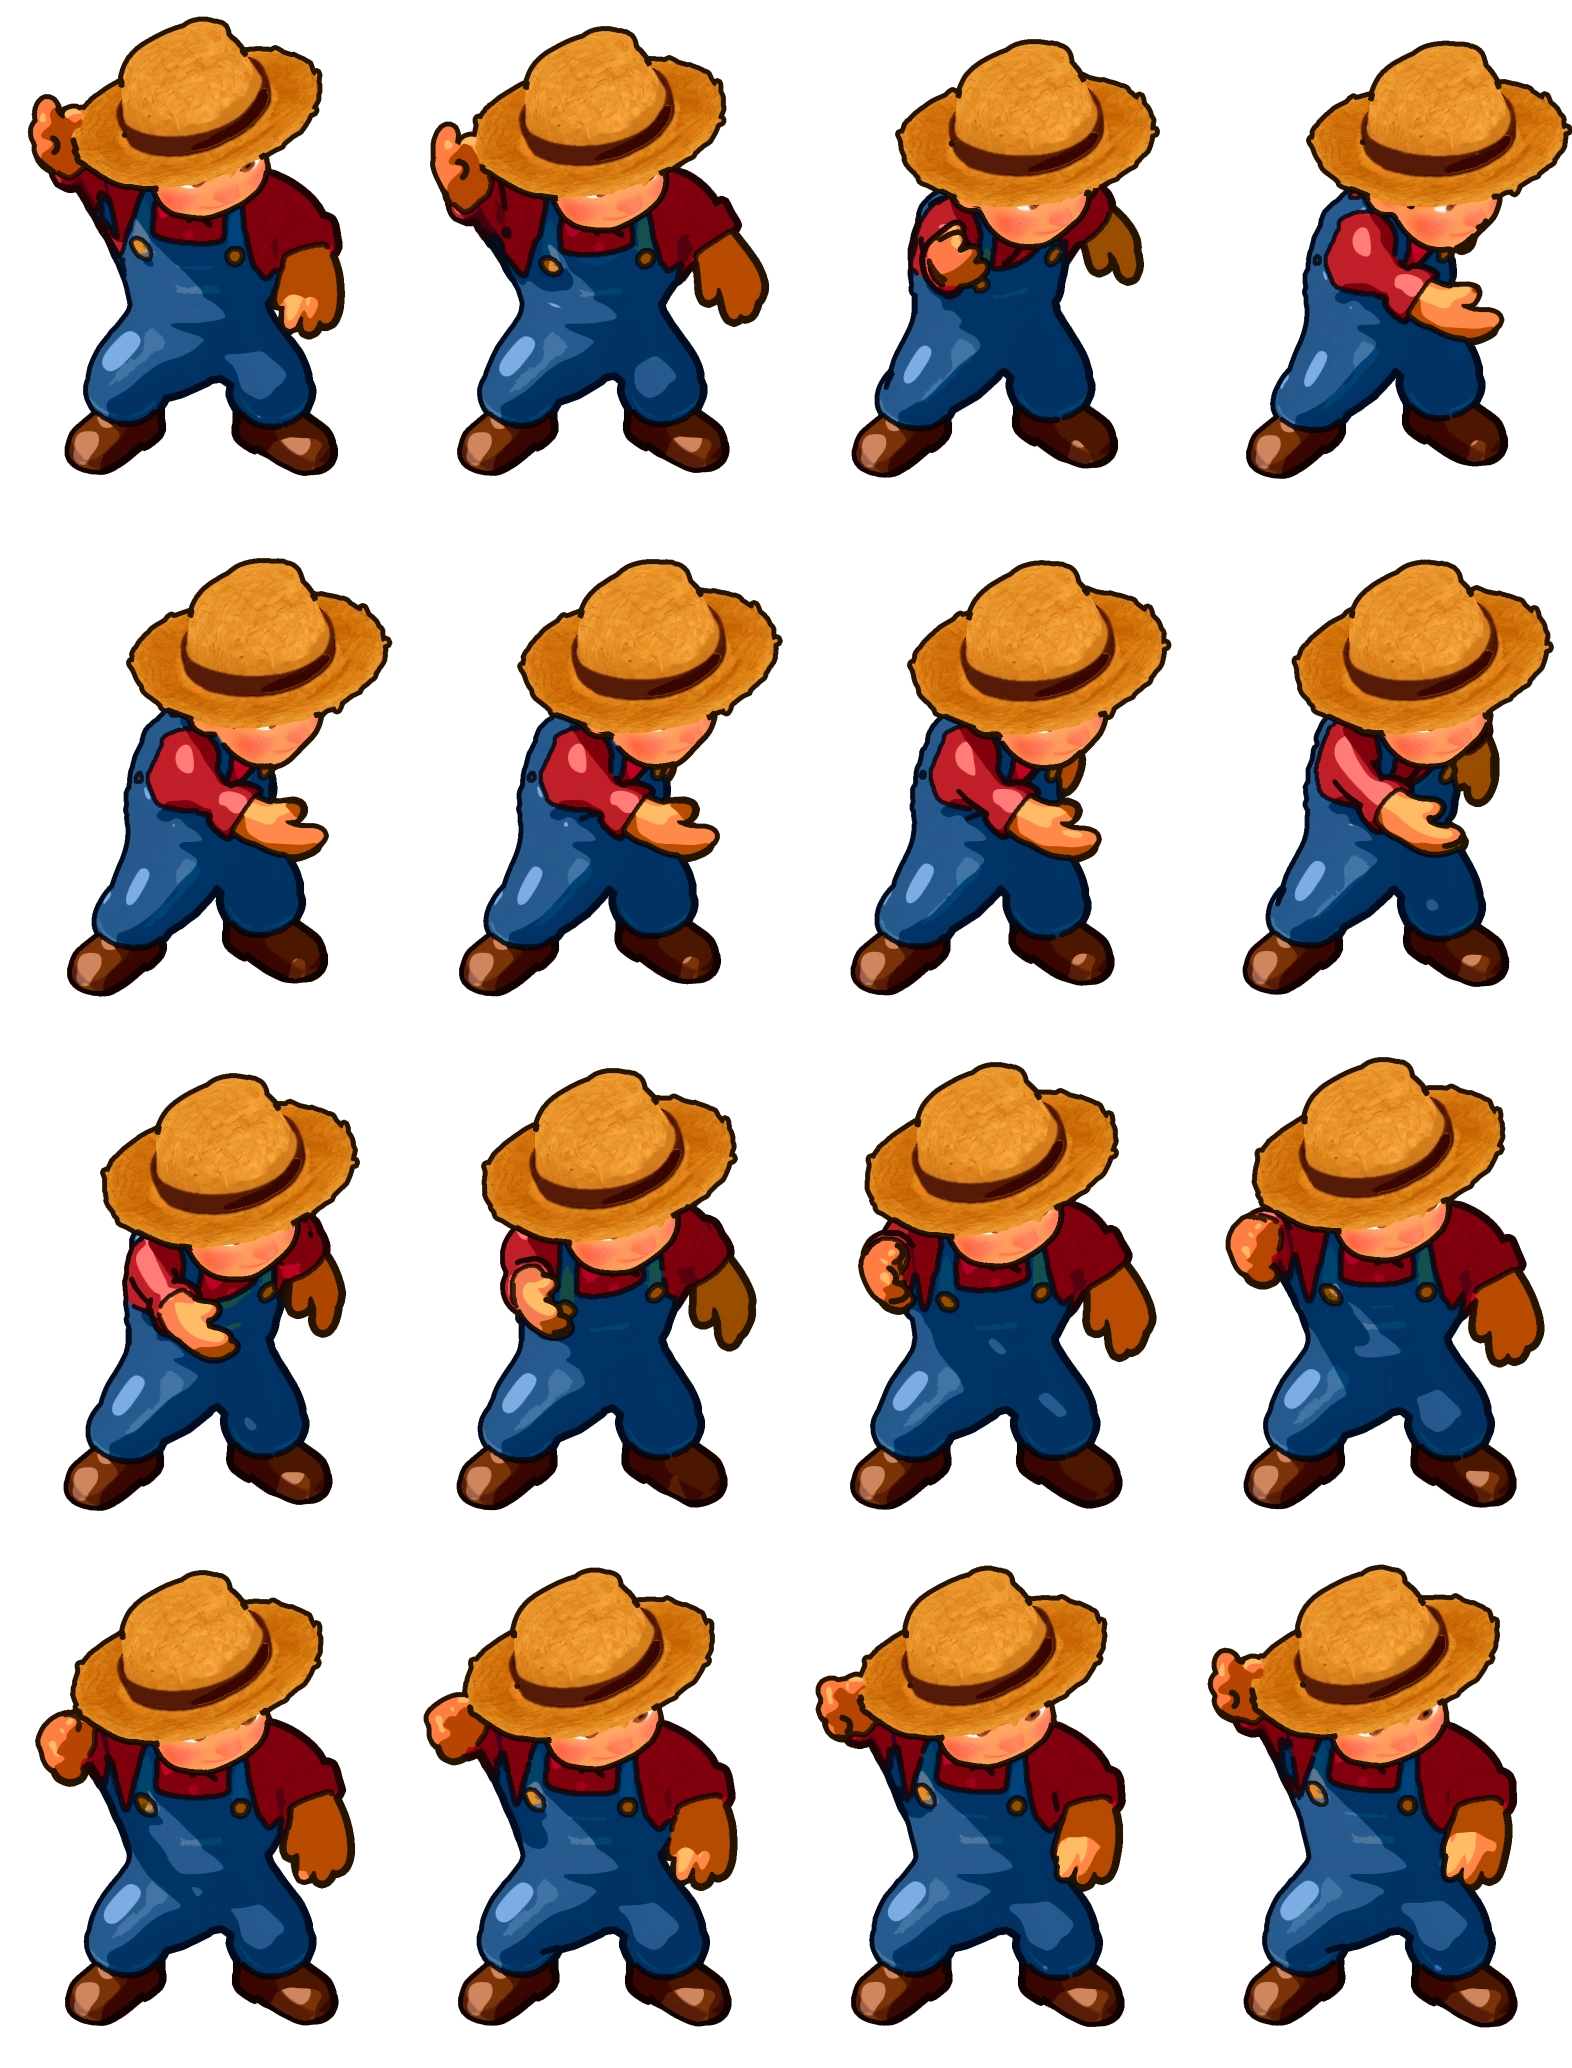
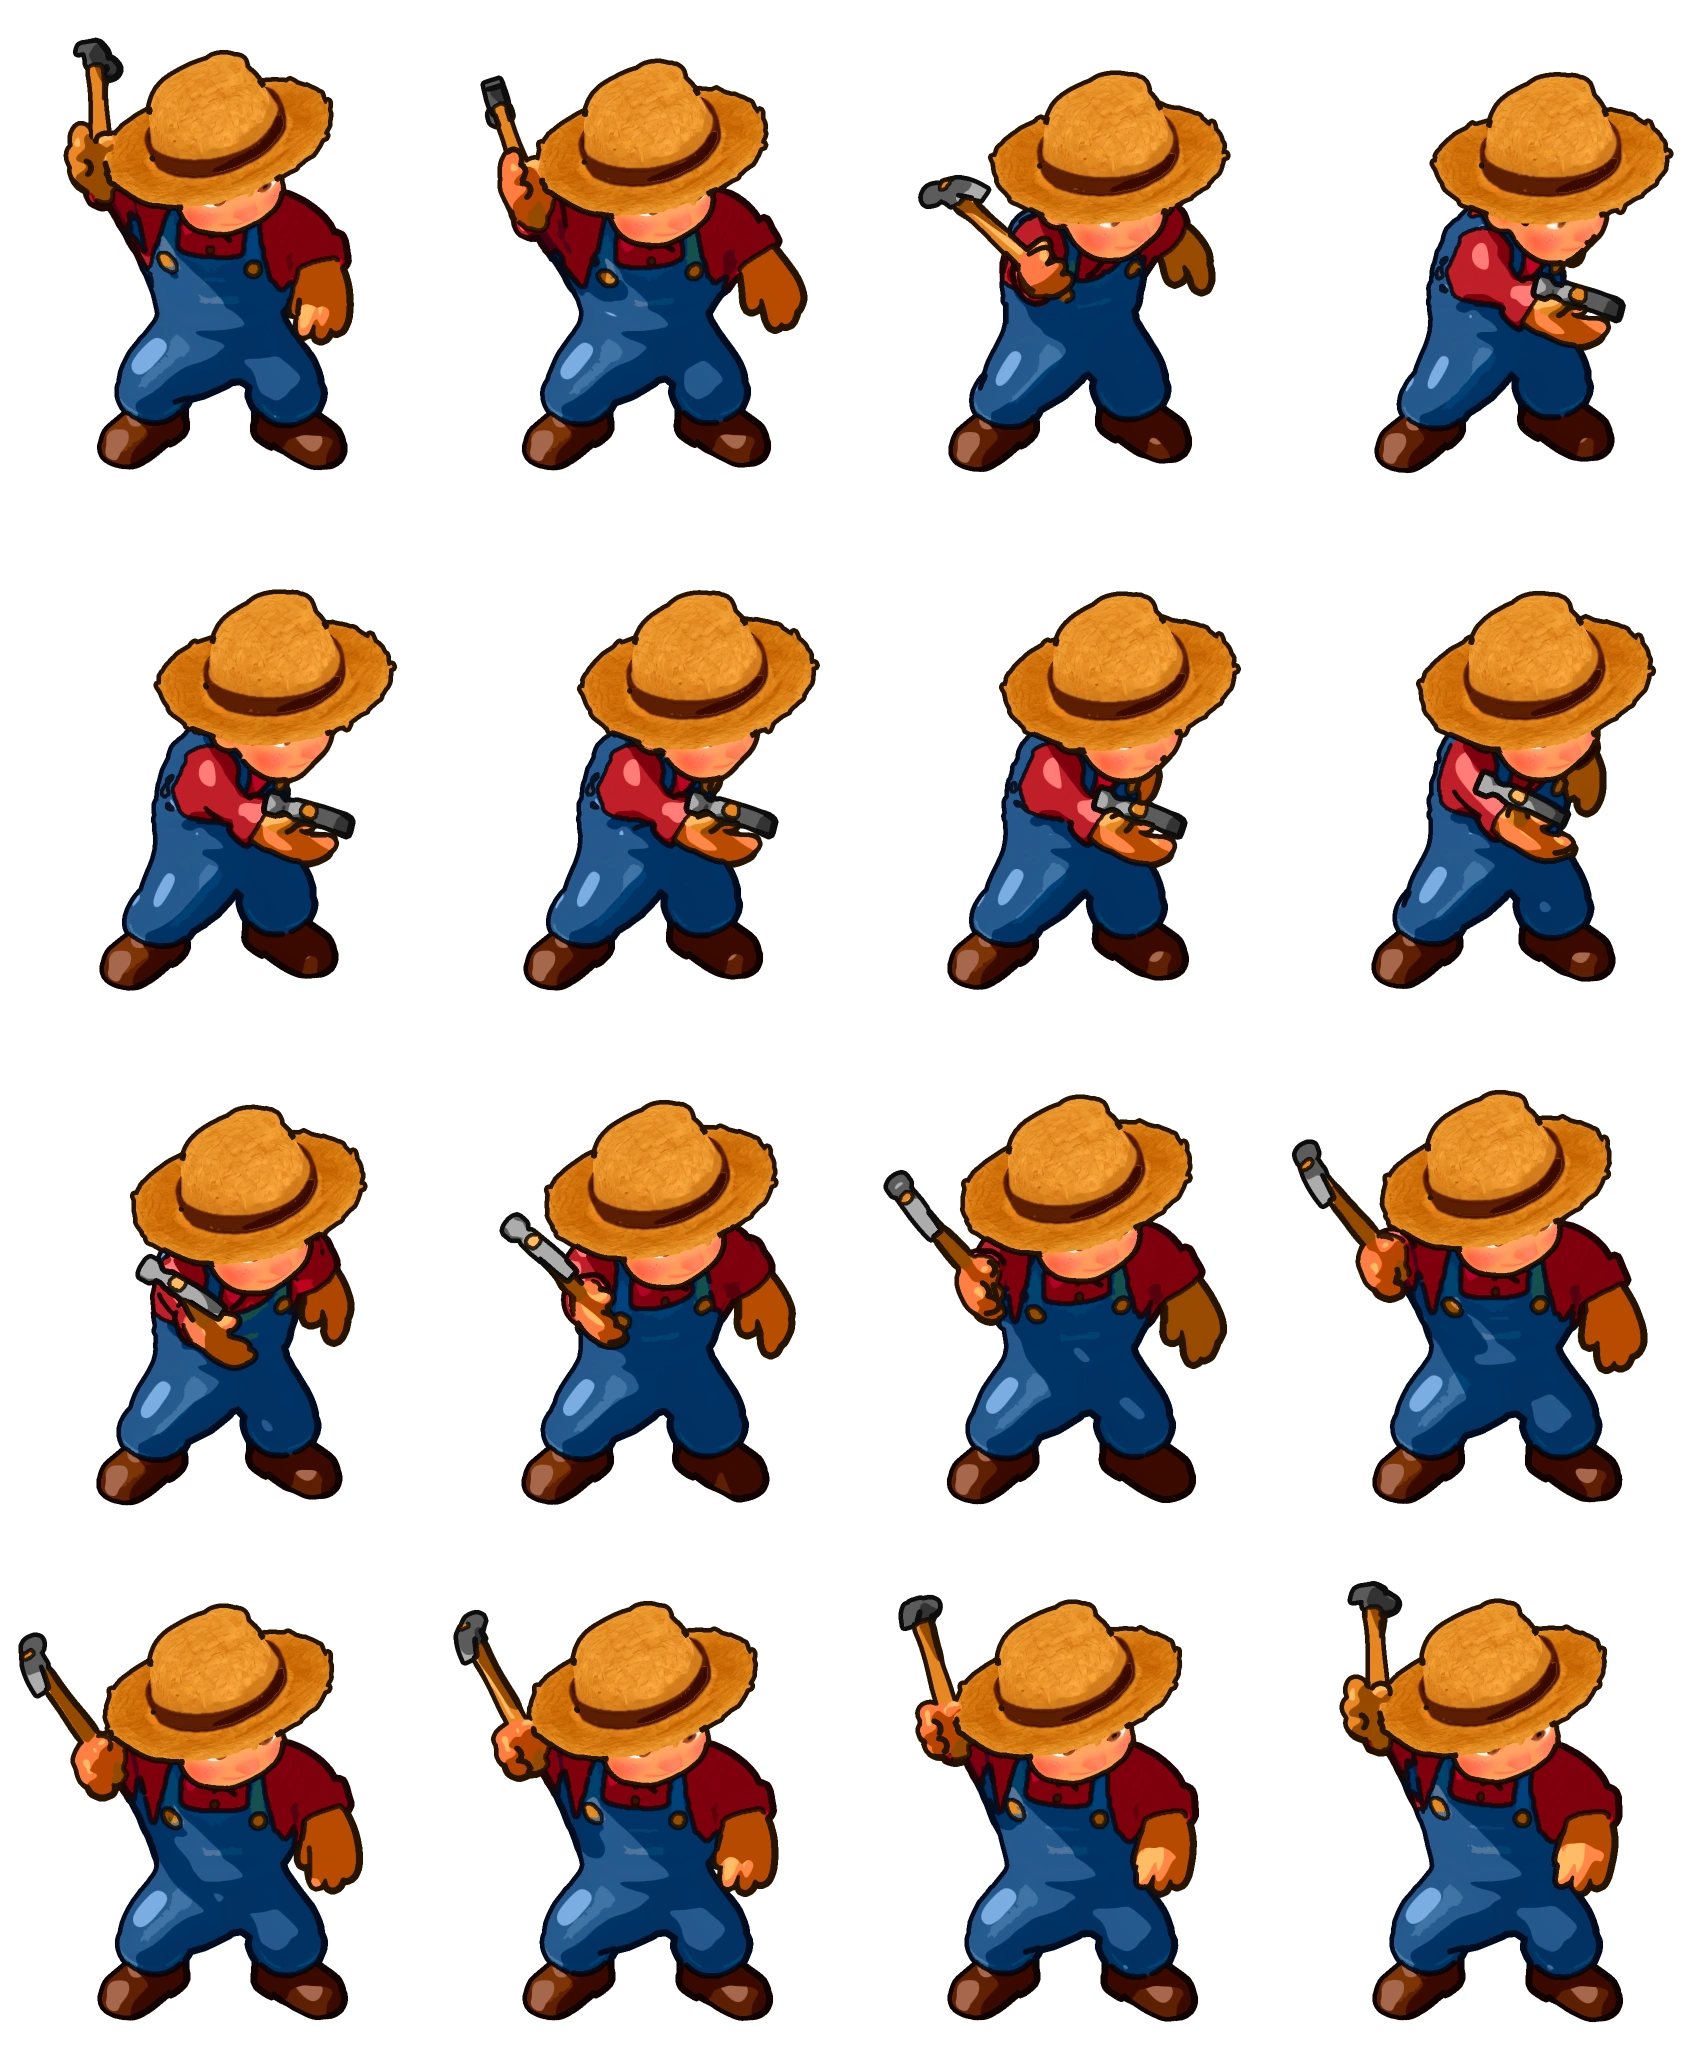
Farmer holds the right tool for each job, sheet within 4096 px
Every JobKind gets its own animation (WORK_ANIM moves to scenes/art.ts),
rendered with its tool in hand. The sheet is relaid out as 24 columns
(one row per animation) so it is 3936x2028 at 2x instead of 984x4992;
mine plays the quarry frames. Tests check every job has its animation in
all four facings and that no pack texture is over 4096 px.

diff --git a/src/scenes/art.test.ts b/src/scenes/art.test.ts
@@ -11,6 +11,7 @@ import { HOUSE_PILES } from '../logic/stockpiles';
 import '../data/processing';
 import { SEASONS } from '../data/seasons';
 import { SOIL_QUALITY } from '../data/soil';
+import { JOBS, type JobKind } from '../data/workers';
 import { MAP_HEIGHT, MAP_WIDTH, START_LAND } from '../logic/constants';
 import {
   baseArt,
@@ -30,6 +31,7 @@ import {
   facing,
   FARMER_ART,
   type FarmerAnim,
+  WORK_ANIM,
   fencePiece,
   groundTint,
   RICH_GROUND_TINT,
@@ -165,10 +167,41 @@ describe('art pack', () => {
   });
 
   it('has the farmer walking, sitting and at every job, in every direction', () => {
-    const anims: FarmerAnim[] = ['idle', 'sit', 'walk', 'plough', 'plant', 'harvest', 'build', 'feed'];
+    const anims: FarmerAnim[] = ['idle', 'sit', 'walk', ...Object.values(WORK_ANIM)];
     const keys = assets.get(FARMER_ART)!.animations!.map((a) => a.key);
     for (const anim of anims) for (const dir of ['se', 'sw', 'ne', 'nw']) expect(keys).toContain(`${FARMER_ART}_${anim}_${dir}`);
     expect(usedArt()).toContain(FARMER_ART);
+  });
+
+  it('gives every job its own farmer animation, in every direction', () => {
+    const keys = new Set(assets.get(FARMER_ART)!.animations!.map((a) => a.key));
+    for (const kind of Object.keys(JOBS) as JobKind[]) {
+      expect(WORK_ANIM[kind], kind).toBe(kind);
+      for (const dir of ['se', 'sw', 'ne', 'nw']) expect(keys.has(`${FARMER_ART}_${WORK_ANIM[kind]}_${dir}`), `${kind} ${dir}`).toBe(true);
+    }
+  });
+
+  it('keeps every texture of the pack within 4096 px, the WebGL limit of many phones', () => {
+    for (const asset of manifest.assets) {
+      for (const res of ['1x', '2x'] as const) {
+        const file = resolve(PACK, asset.res[res].file);
+        if (!existsSync(file)) continue;
+        const png = readFileSync(file);
+        const [w, h] = [png.readUInt32BE(16), png.readUInt32BE(20)];
+        expect(Math.max(w, h), asset.res[res].file).toBeLessThanOrEqual(4096);
+      }
+    }
+  });
+
+  it('lays the farmer sheet out so every animation frame is inside it', () => {
+    const farmer = assets.get(FARMER_ART)!;
+    for (const res of ['1x', '2x'] as const) {
+      const r = farmer.res[res];
+      const png = readFileSync(resolve(PACK, r.file));
+      const [w, h] = [png.readUInt32BE(16), png.readUInt32BE(20)];
+      const frames = Math.floor(w / r.frameWidth!) * Math.floor(h / r.frameHeight!);
+      for (const an of farmer.animations!) expect(an.end, an.key).toBeLessThan(frames);
+    }
   });
 
   it('has an icon for every item, plus coins', () => {

diff --git a/src/features/workers/index.ts b/src/features/workers/index.ts
@@ -1,6 +1,5 @@
 import Phaser from 'phaser';
 import { FARMHOUSE } from '../../data/farmhouse';
-import type { JobKind } from '../../data/workers';
 import type { FarmContext, PlacedObject, SheetSpec } from '../../game/context';
 import { onGameStart, registerBehavior, registerDebugInfo, registerHudButton } from '../../game/hooks';
 import { farmerActivity, farmerName, placeName } from '../../game/workers';
@@ -20,7 +19,7 @@ import {
   workersOf,
   type Job,
 } from '../../logic/workers';
-import { facing, FARMER_ART, type Facing, type FarmerAnim } from '../../scenes/art';
+import { facing, FARMER_ART, WORK_ANIM, type Facing, type FarmerAnim } from '../../scenes/art';
 import { DEPTH, walkerDepth } from '../../scenes/depth';
 import { gridToWorld } from '../../scenes/iso';
 import { addArtSprite, addShadow } from '../../scenes/sprites';
@@ -203,23 +202,6 @@ function seatOf(i: number): (typeof SEATS)[number] {
   const k = i - SEATS.length;
   return { x: -0.35 - (k % 3) * 0.32, y: 0.4 + Math.floor(k / 3) * 0.45, anim: 'idle', facing: 'se' };
 }
-
-/** The animation for each job's work. */
-const WORK_ANIM: Record<JobKind, FarmerAnim> = {
-  build: 'build',
-  plough: 'plough',
-  plant: 'plant',
-  harvest: 'harvest',
-  // Forking manure out over the soil: the feeding toss.
-  fertilise: 'feed',
-  feed: 'feed',
-  collect: 'harvest',
-  load: 'feed',
-  // Swinging an axe or a pick: the building swing.
-  chop: 'build',
-  quarry: 'build',
-  mine: 'build',
-};
 
 const BAR_W = 40;
 /** The bar floats this far above the farmer's feet. */

diff --git a/src/scenes/art.ts b/src/scenes/art.ts
@@ -5,6 +5,7 @@
  */
 
 import { SEASONS, type Season } from '../data/seasons';
+import type { JobKind } from '../data/workers';
 import { soilBand } from '../logic/soil';
 
 /** Where the pack lives, relative to the page (vite `base: './'`). */
@@ -243,7 +244,22 @@ export function facing(dx: number, dy: number): Facing {
 
 /** The farmer's sprite sheet: `farmer_<anim>_<facing>` animations. */
 export const FARMER_ART = 'farmer';
-export type FarmerAnim = 'idle' | 'sit' | 'walk' | 'plough' | 'plant' | 'harvest' | 'build' | 'feed';
+export type FarmerAnim = 'idle' | 'sit' | 'walk' | JobKind;
+
+/** The animation for each job's work, with the tool he holds (`tools/ludo/README.md`, "Tools"). */
+export const WORK_ANIM: Record<JobKind, FarmerAnim> = {
+  plough: 'plough', // hoe
+  plant: 'plant', // seed bag
+  harvest: 'harvest', // sickle
+  collect: 'collect', // basket
+  feed: 'feed', // feed bucket
+  fertilise: 'fertilise', // pitchfork
+  load: 'load', // sack
+  build: 'build', // hammer
+  chop: 'chop', // axe
+  quarry: 'quarry', // pickaxe
+  mine: 'mine', // pickaxe
+};
 
 /** Feed mill body and its turning sails (same canvas and anchor). */
 export const MILL = { body: 'feed_mill', sails: 'feed_mill_sails', spin: 'feed_mill_sails_spin' } as const;
